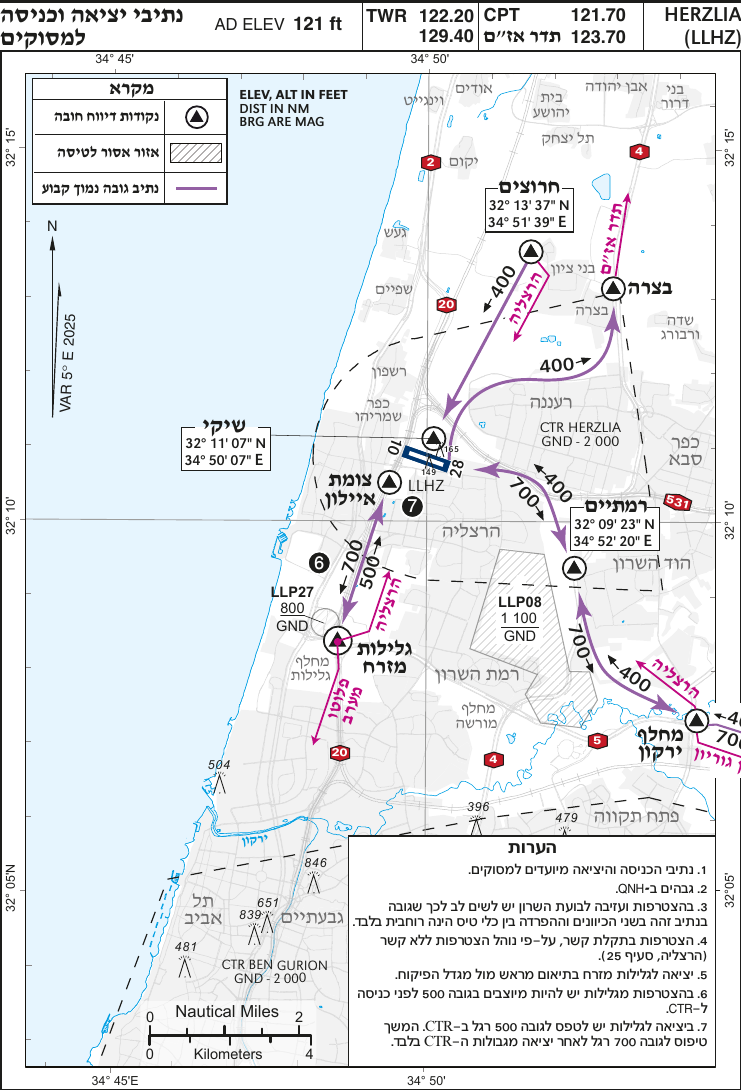
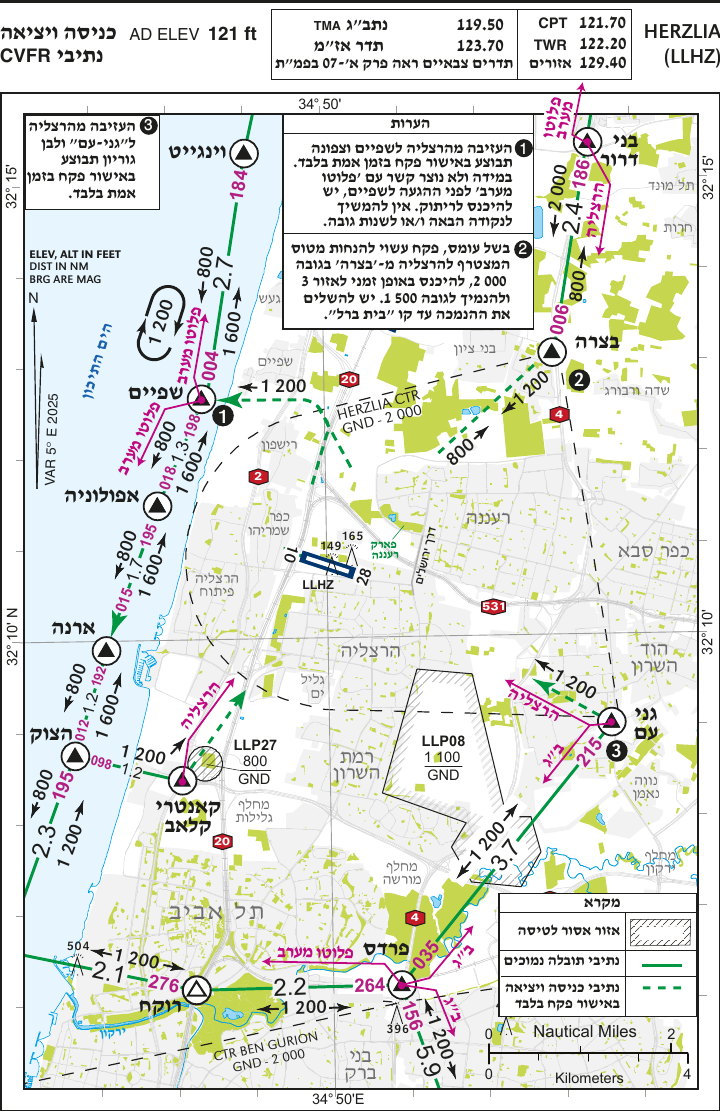
Fix LLHZ CVFR overlay: use CVFR-routes plate (Annex Gimel), not heli routes
LLHZ was showing Annex He (helicopter entry/exit routes). Replace with
Annex Gimel — the actual 'כניסה ויציאה נתיבי CVFR' entry/exit routes plate
— re-cropped and georeferenced so the runway seats on the field (verified
against SFAIM/BAZRA waypoints). Cache bump (airfields v23, assets v360,
cvfr images v2).

diff --git a/docs/index.html b/docs/index.html
@@ -121,7 +121,7 @@
   </script>
   <link rel="stylesheet" href="https://unpkg.com/leaflet@1.9.4/dist/leaflet.css">
   <link rel="stylesheet" href="https://cdn.jsdelivr.net/npm/leaflet-velocity@1.7.0/dist/leaflet-velocity.min.css">
-  <link rel="stylesheet" href="app/style.css?v=359">
+  <link rel="stylesheet" href="app/style.css?v=360">
 </head>
 <body>
   <!-- Crawlable static content. The app renders into a full-screen canvas/map
@@ -743,7 +743,7 @@
        hack for strings.js. Silences CodeQL js/eval-like-call (#12). -->
   <script>
     (function () {
-      var v = '?v=359';
+      var v = '?v=360';
       var srcs = [
         'https://unpkg.com/leaflet@1.9.4/dist/leaflet.js',
         'https://unpkg.com/leaflet-rotate@0.2.8/dist/leaflet-rotate.js',

diff --git a/docs/app/core.js b/docs/app/core.js
@@ -486,7 +486,7 @@ var magVar = -5;                       // signed offset added to true heading
 window.S = Object.assign({
   navWpUrl: 'data/cvfr-nav-waypoints.json?v=3',  // resolved relative to index.html (docs/)
   navWpSearchField: 'en',              // which locale label to show/search in results
-  airfieldsUrl: 'data/airfields.json?v=22',  // resolved relative to index.html (docs/)
+  airfieldsUrl: 'data/airfields.json?v=23',  // resolved relative to index.html (docs/)
   airfieldLabelField: 'en',            // which locale label to show on the overlay
   commChangeUrl: 'data/cvfr-comm-change.json?v=1', // CVFR comm-change reporting points (issue #399)
   legAltitudeUrl: 'data/cvfr-leg-altitude.json?v=1', // CVFR green-route leg altitude table

diff --git a/docs/app/ui.js b/docs/app/ui.js
@@ -3044,7 +3044,7 @@ function loadCvfrOverlays() {
     const co = af.cvfr_overlay;
     if (!co) continue;
     L.imageOverlay(
-      cvfrImgBase() + encodeURIComponent(co.png) + '?v=1',
+      cvfrImgBase() + encodeURIComponent(co.png) + '?v=2',
       [co.sw, co.ne],
       { opacity: cvfrOpacity, interactive: false, pane: 'overlayPane' }
     ).addTo(cvfrLayerGroup);
